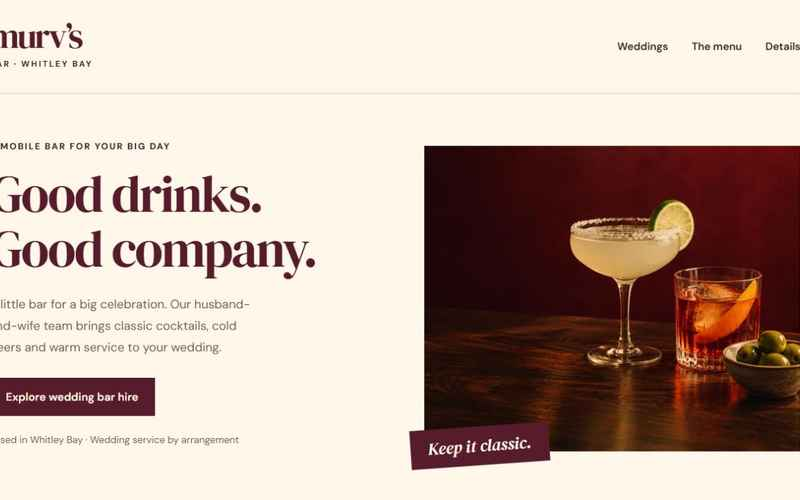
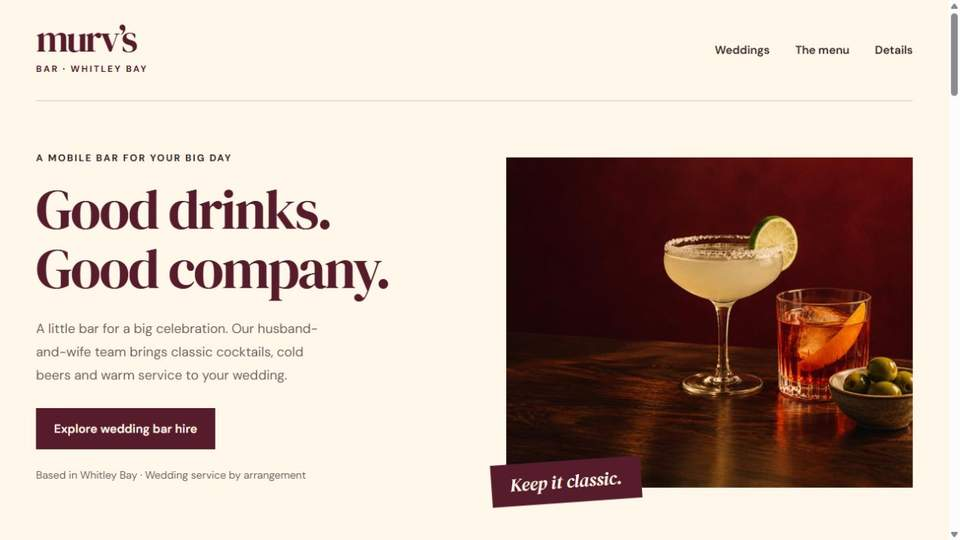
Add Kitchen91 project card and show uncropped website previews

diff --git a/index.html b/index.html
@@ -141,7 +141,7 @@
     }
     .project + .project { margin-top: 18px; }
     .project:hover { box-shadow: 0 10px 30px rgba(15, 42, 74, 0.12); transform: translateY(-2px); }
-    .project img { width: 100%; height: 100%; object-fit: cover; display: block; border-right: 1px solid var(--line); }
+    .project img { width: 100%; height: auto; align-self: center; object-fit: contain; display: block; border-right: 1px solid var(--line); }
     .project .info { padding: 28px; display: flex; flex-direction: column; }
     .project .tag { font-size: 0.85rem; color: var(--muted); margin-bottom: 6px; }
     .project ul { padding-left: 20px; margin: 4px 0 18px; }
@@ -420,7 +420,7 @@
         </div>
       </a>
       <a class="project" data-project-id="ae382dcf" href="https://murvs.sunnymeadgroup.co.uk/" target="_blank" rel="noopener">
-        <img src="assets/murvs-bar.jpg" alt="Murv’s Bar wedding bar website" loading="lazy" width="800" height="500">
+        <img src="assets/murvs-bar.jpg" alt="Murv’s Bar wedding bar website" loading="lazy" width="960" height="540">
         <div class="info">
           <p class="tag">Mobile wedding bar &middot; Whitley Bay</p>
           <h3>Murv’s Bar</h3>
@@ -429,6 +429,20 @@
             <li>Three wedding packages with clear pricing and inclusions</li>
             <li>Easy-to-browse cocktail and drinks menu</li>
             <li>Travel details, venue requirements and a simple enquiry route</li>
+          </ul>
+          <span class="go">Visit the website &rarr;</span>
+        </div>
+      </a>
+      <a class="project" data-project-id="1ead8bd6" href="https://kitchen91.sunnymeadgroup.workers.dev/" target="_blank" rel="noopener">
+        <img src="assets/kitchen91.jpg" alt="Kitchen91 café, deli and bistro website" loading="lazy" width="960" height="540">
+        <div class="info">
+          <p class="tag">Café, deli &amp; bistro &middot; Monkseaton, Whitley Bay</p>
+          <h3>Kitchen91</h3>
+          <p>A welcoming website for Kitchen91’s café, deli and bistro in Monkseaton, with breakfast and lunch menus, afternoon tea, private hire and opening times.</p>
+          <ul>
+            <li>Breakfast and lunch menus with prices and dietary options</li>
+            <li>Afternoon tea, private hire and table enquiries</li>
+            <li>Today’s opening hours, directions and tap-to-call links</li>
           </ul>
           <span class="go">Visit the website &rarr;</span>
         </div>
